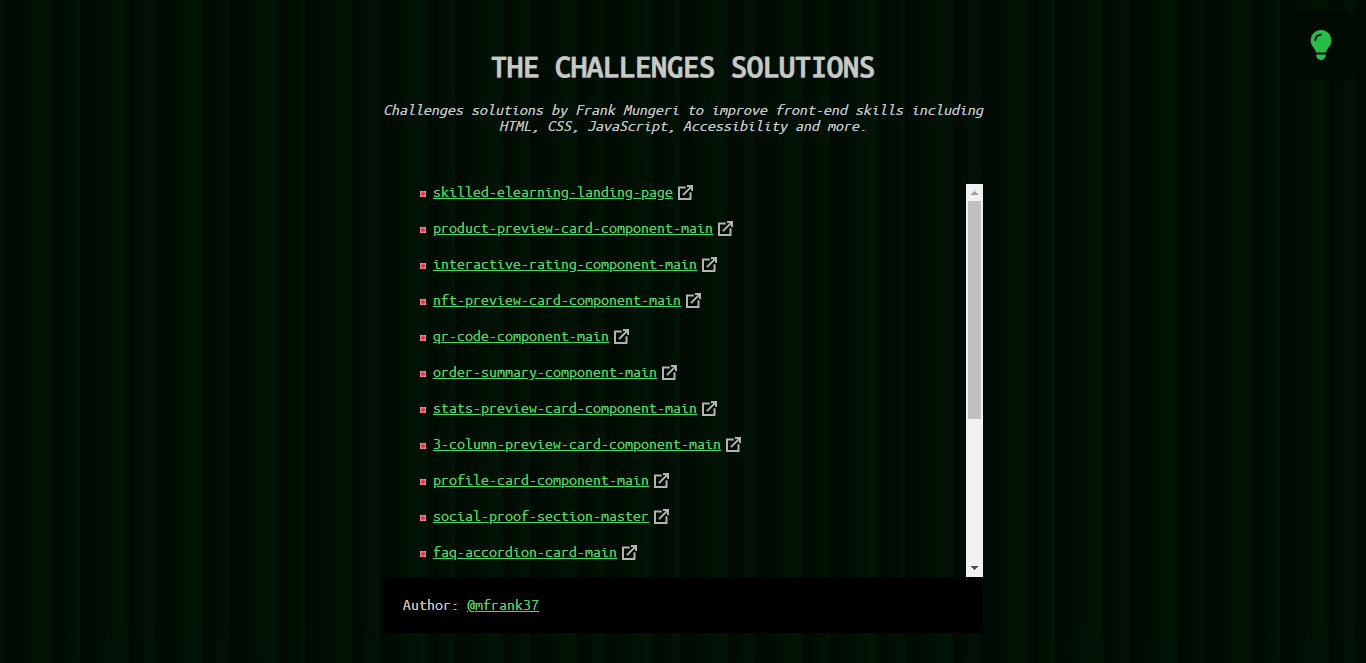
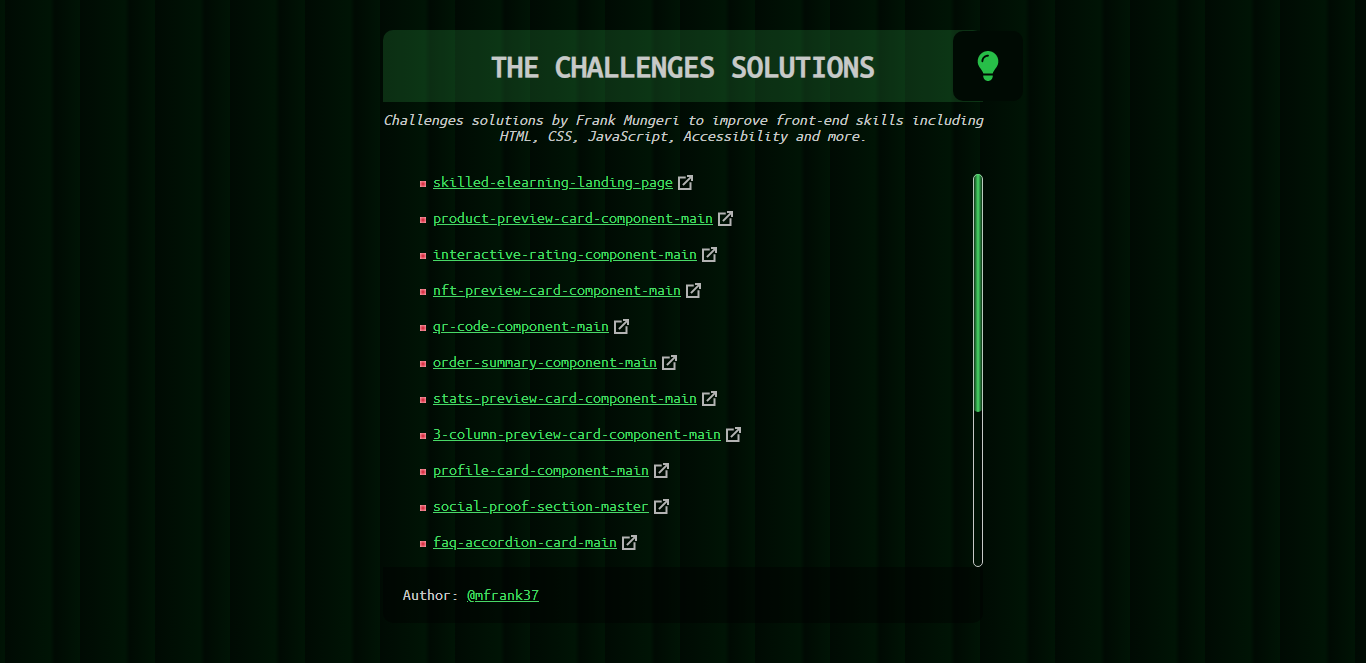
improves homepage designs

diff --git a/main.css b/main.css
@@ -57,8 +57,10 @@ li {
 }
 
 h1 {
-  margin: 30px 0 0 0;
+  margin: 10px 0;
   padding: 20px 0;
+  background-color: #48d9672b;
+  border-radius: 10px 10px 0 0;
 }
 
 h1:hover {
@@ -67,7 +69,8 @@ h1:hover {
 }
 
 footer {
-  background: #000;
+  border-radius: 0 0 10px 10px;
+  background-color: #00000070;
   padding: 20px;
 }
 
@@ -81,7 +84,7 @@ footer:hover * {
 }
 
 header {
-  margin-bottom: 50px;
+  margin: 30px 0;
   text-align: center;
 }
 
@@ -95,12 +98,29 @@ main {
   overflow: auto;
 }
 
+::-webkit-scrollbar {
+  width: 10px;
+  border-radius: 5px;
+  border: 1px double var(--grey);
+}
+
+::-webkit-scrollbar-track {
+  background: transparent;
+}
+
+::-webkit-scrollbar-thumb {
+  background: linear-gradient(90deg, transparent, var(--green), transparent);
+  border-radius: 5px;
+  min-height: 20px;
+}
+
 ul {
   padding-left: 50px;
   list-style-image: radial-gradient(var(--red), var(--pink));
 }
 
 html, body {
+  position: relative;
   width: 100vw;
   overflow-x: hidden;
 }
@@ -120,6 +140,7 @@ aside {
   background-color: var(--green2);
   color: var(--darker-green);
   transition: all 0.5s ease-in-out;
+  z-index: 1;
 }
 
 aside.open {
@@ -158,7 +179,7 @@ svg.icon {
   width: 70px;
   height: 70px;
   position: absolute;
-  top: 10px;
+  top: 31px;
   right: 10px;
   padding: 20px;
 }
@@ -183,17 +204,6 @@ svg.icon {
   border: 2px solid var(--green2);
 }
 
-@media (max-height: 520px) {
-  h1 {
-    margin-top: 20px;
-    margin-bottom: 20px;
-  }
-
-  header {
-    margin-bottom: 30px;
-  }
-}
-
 @media (max-width: 480px) {
   .icon.bulb {
     width: 50px;
@@ -201,6 +211,15 @@ svg.icon {
     top: 5px;
     right: 5px;
     padding: 15px;
+  }
+  
+  .icon:not(.bulb) {
+    left: 0px;
+    border: 2px solid var(--darker-green);
+  }
+
+  .icon:not(.bulb):hover {
+    border: 0;
   }
 
   h1 {
